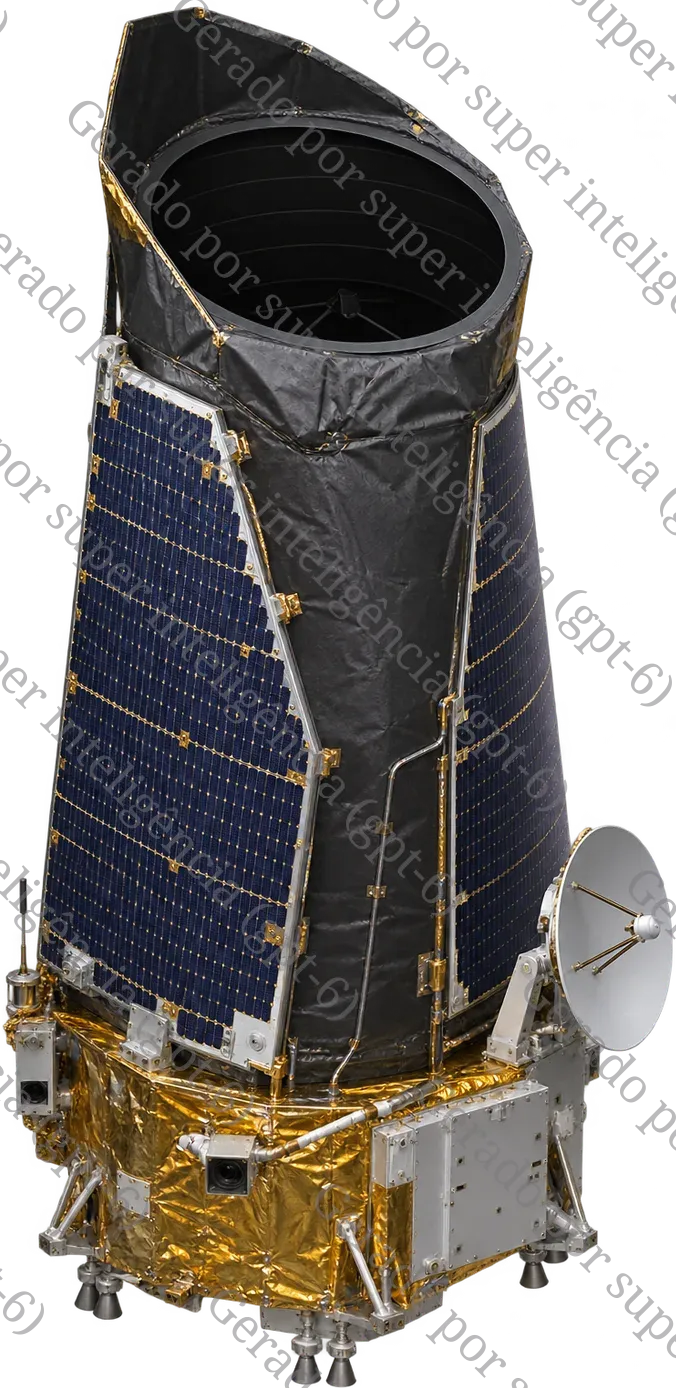
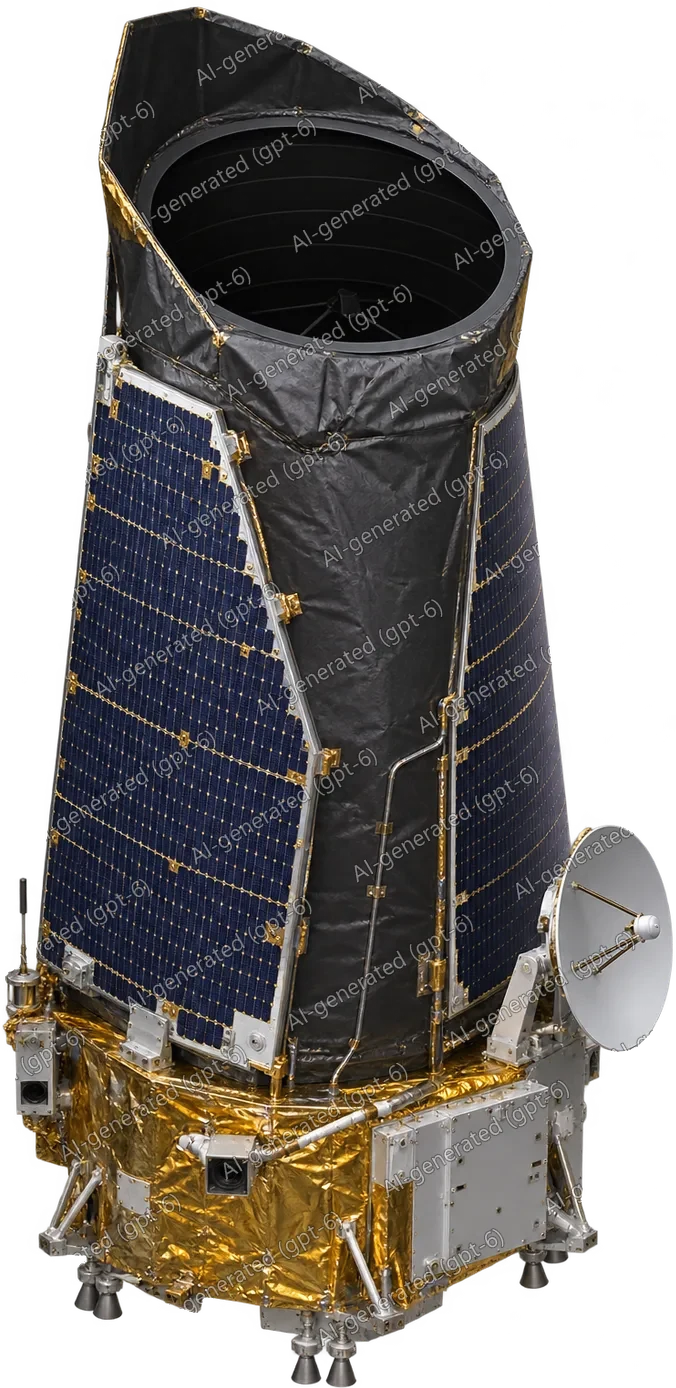
Make every image's watermark match its stated source
The seven NASA photos and illustrations go back to the originals without a watermark. The eleven team illustrations get the watermark in English (AI-generated (gpt-6)) and their label and hint now say they were made with an AI image tool. Removes the old team name from the image texts.

diff --git a/THIRD_PARTY_LICENSES.md b/THIRD_PARTY_LICENSES.md
@@ -58,7 +58,8 @@ Images made with Blender belong to their author; the GPL only covers the Blender
   link are in `backend/Data/images.json` and are shown on the site when the image is clicked.
 - **Simulator part renders** (`frontend/public/images/hardware/`): modeled and rendered by the team in Blender,
   inspired by the real hardware listed in `backend/Data/components.json`.
-- **Team illustrations**: created by the team from NASA documents; each one links to the
+- **Team illustrations**: created by the team with an AI image tool (gpt-6) from NASA documents, and marked
+  "AI-generated (gpt-6)" on the image; each one links to the
   NASA reference used.
 - **Mission data**: NASA Space Science Data Coordinated Archive (NSSDCA) and official NASA/JPL pages,
   linked from each artifact and from each simulator component (`backend/Data/components.json`).
